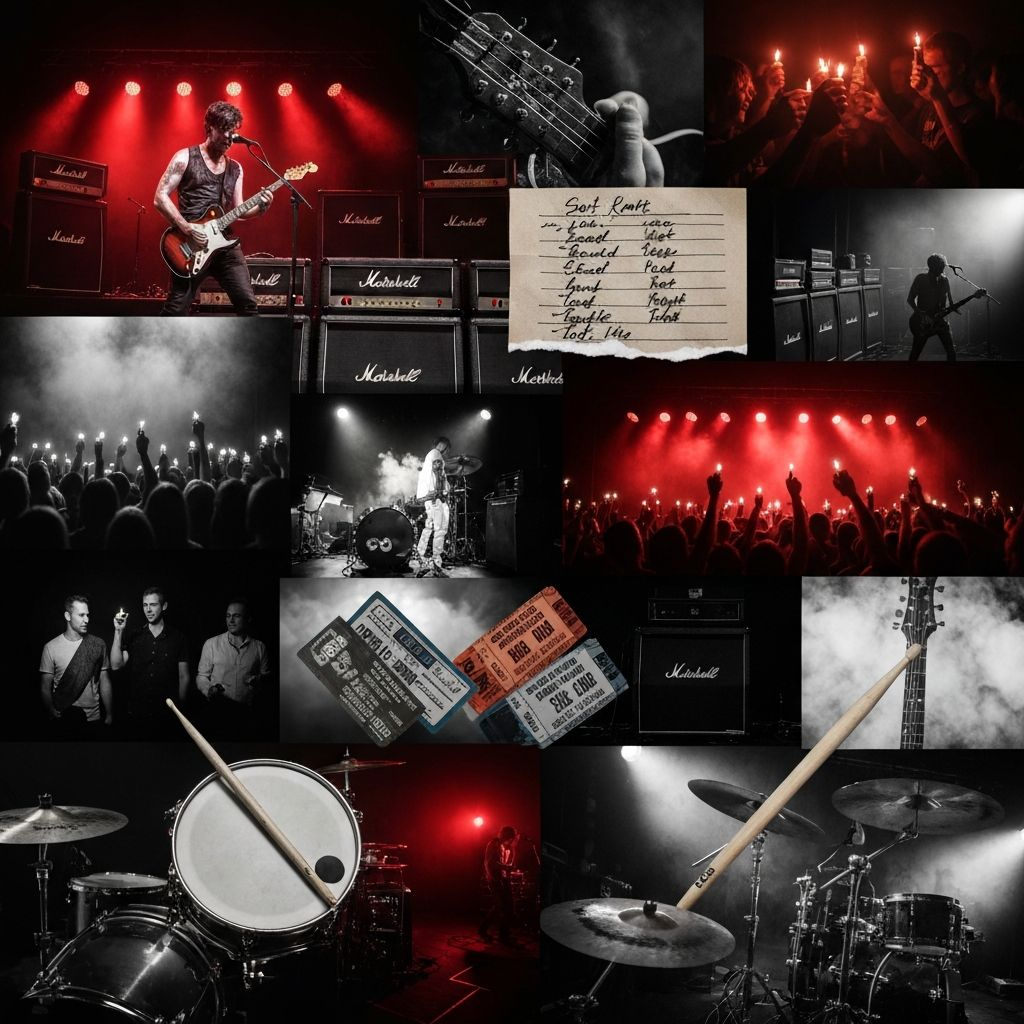
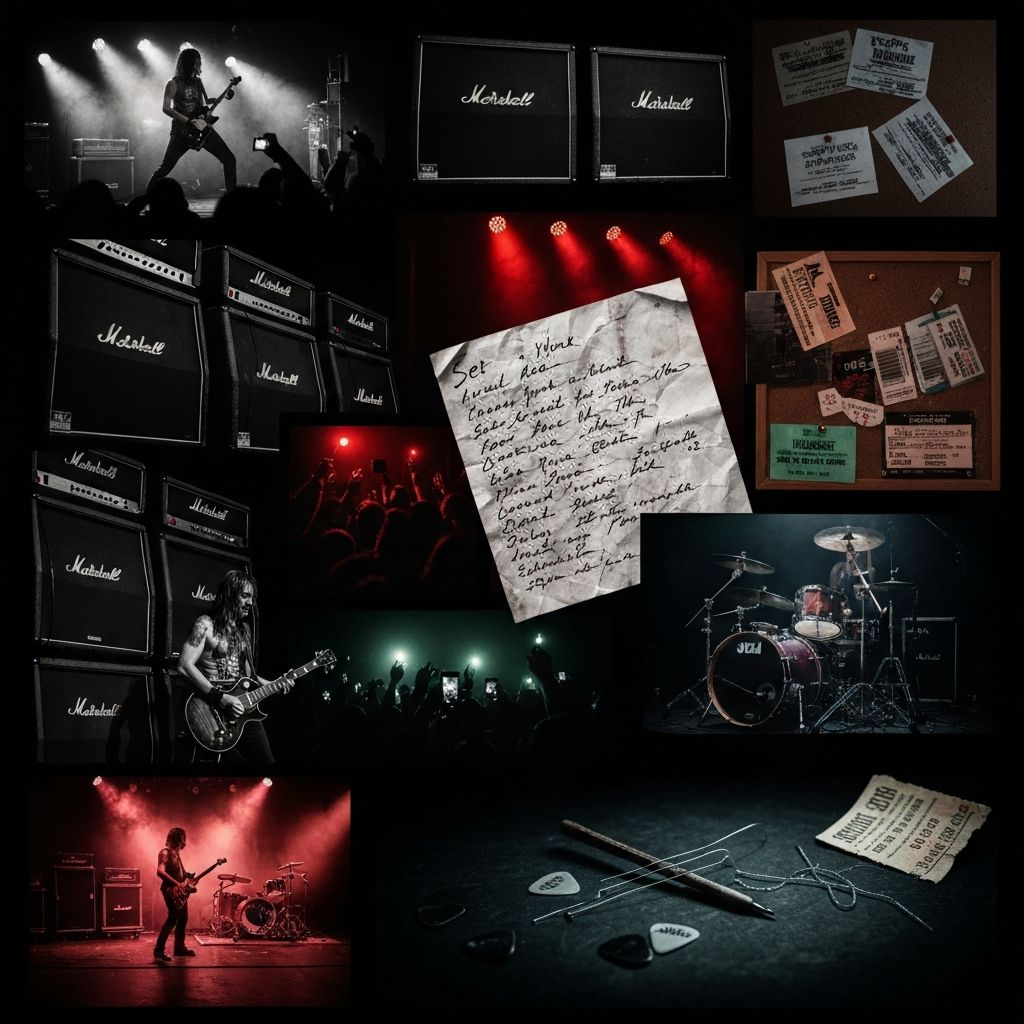
style: redesign component with brutalist oblique geometry
Update background with dark gradient and shadow; rewrite
with asymmetric polygon, red shadow, and bold typography.

diff --git a/components/band-story-section.tsx b/components/band-story-section.tsx
@@ -8,142 +8,182 @@ export default function BandStorySection() {
     <section
       id="historia"
       className="relative w-full overflow-hidden"
-      style={{ minHeight: '680px' }}
-      aria-label="El Alma de Autofilia"
+      style={{ minHeight: '760px' }}
+      aria-label="El Alma de Autofilia — Historia de la banda"
     >
-      {/* ── Full-width collage background ── */}
+
+      {/* ─────────────────────────────────────────
+          LAYER 0 — Rock collage background image
+      ───────────────────────────────────────── */}
       <div className="absolute inset-0 z-0">
         <Image
           src="/images/rock-collage-bg.jpg"
-          alt="Autofilia rock collage — conciertos, amplificadores y memorabilia"
+          alt="Collage de conciertos, amplificadores Marshall y memorabilia de Autofilia"
           fill
           className="object-cover object-center"
           priority
         />
-        {/* Deep dark overlay for drama and contrast */}
+
+        {/* Deep radial black gradient for negative-space contrast */}
         <div
           className="absolute inset-0"
           style={{
             background:
-              'linear-gradient(135deg, rgba(5,5,5,0.72) 0%, rgba(5,5,5,0.45) 50%, rgba(5,5,5,0.72) 100%)',
+              'radial-gradient(ellipse at 50% 50%, rgba(0,0,0,0.45) 0%, rgba(0,0,0,0.78) 55%, rgba(0,0,0,0.93) 100%)',
           }}
           aria-hidden="true"
         />
-        {/* Subtle blood-red edge glow */}
+
+        {/* Hard black vignette on top and bottom */}
         <div
           className="absolute inset-0 pointer-events-none"
           style={{
-            boxShadow: 'inset 0 0 120px 20px rgba(136,8,8,0.25)',
+            background:
+              'linear-gradient(to bottom, rgba(0,0,0,0.9) 0%, transparent 22%, transparent 78%, rgba(0,0,0,0.9) 100%)',
           }}
           aria-hidden="true"
         />
       </div>
 
-      {/* ── Angled white polygon text container ── */}
-      {/*
-        The oblique/parallelogram shape is achieved with two CSS techniques:
-        1. clip-path on the white panel — a bold skewed parallelogram
-        2. An extra decorative red slash accent line
-      */}
-      <div className="relative z-10 flex items-center justify-center w-full min-h-[680px] py-20 px-6">
+      {/* ─────────────────────────────────────────
+          LAYER 1 — Full-width layout wrapper
+      ───────────────────────────────────────── */}
+      <div className="relative z-10 flex items-center justify-center w-full min-h-[760px] py-24 px-4 md:px-8">
 
-        {/* Outer wrapper that holds the slant + decorative lines */}
-        <div className="relative w-full max-w-3xl">
+        {/* ── Max-width constraint ── */}
+        <div className="relative w-full max-w-4xl">
 
-          {/* Decorative blood-red slash — left edge accent */}
+          {/* ─────────────────────────────────────
+              THE OBLIQUE CUT-OUT POLYGON
+              Geometry (matching brutalist Metallica-banner style):
+                Top-left  → 5% from left, 0% top
+                Top-right → 100% from left, 0% top
+                Bottom-right → 95% from left, 100% bottom
+                Bottom-left → 0% from left, 100% bottom
+              Plus the inner top/bottom slants are NON-PARALLEL:
+                top-left starts at 8% height (drops inward)
+                bottom-right starts at 92% height (rises inward)
+              This creates a strong asymmetric parallelogram with
+              different angular energies on each corner.
+          ─────────────────────────────────────── */}
+
+          {/* Outer blood-red shadow/border slab — offset by a few pixels for depth */}
           <div
-            className="absolute -left-3 top-0 bottom-0 w-3 hidden md:block"
+            className="absolute inset-0 translate-x-2 translate-y-2"
             style={{
               background: '#880808',
-              clipPath: 'polygon(0 0, 100% 6%, 100% 94%, 0 100%)',
+              clipPath:
+                'polygon(6% 0%, 100% 0%, 94% 100%, 0% 100%)',
             }}
             aria-hidden="true"
           />
 
-          {/* The bold oblique white panel */}
+          {/* The main white oblique polygon */}
           <div
-            className="relative px-10 py-14 md:px-16 md:py-16"
+            className="relative"
             style={{
               background: '#f0ece4',
               clipPath:
-                'polygon(3% 0%, 100% 0%, 97% 100%, 0% 100%)',
+                'polygon(4% 0%, 100% 0%, 96% 100%, 0% 100%)',
             }}
           >
-            {/* Inner content — dark text on white */}
-            <div className="flex flex-col items-center text-center gap-6">
+            {/* Inner padding using a non-clipped div so text isn't cropped */}
+            <div className="flex flex-col items-center text-center gap-5 px-10 py-16 md:px-20 md:py-20">
 
-              {/* Eyebrow label */}
+              {/* ── Eyebrow label ── */}
               <p
-                className="text-[#880808] text-[10px] tracking-[0.45em] font-semibold"
-                style={{ fontFamily: 'var(--font-oswald), Impact, sans-serif' }}
-              >
-                DESDE LAS CALLES · DESDE EL FONDO
-              </p>
-
-              {/* Main heading */}
-              <h2
-                className="text-[#050505] font-bold leading-none tracking-tight text-balance"
+                className="text-[11px] tracking-[0.5em] font-semibold"
                 style={{
                   fontFamily: 'var(--font-oswald), Impact, sans-serif',
-                  fontSize: 'clamp(2.4rem, 7vw, 5.5rem)',
-                  letterSpacing: '0.04em',
+                  color: '#880808',
+                  letterSpacing: '0.48em',
                 }}
               >
-                EL ALMA DE AUTOFILIA
+                DESDE EL VOLCÁN
+              </p>
+
+              {/* ── Main heading ── */}
+              <h2
+                className="font-bold leading-none text-balance"
+                style={{
+                  fontFamily: 'var(--font-oswald), Impact, sans-serif',
+                  color: '#050505',
+                  fontSize: 'clamp(2.6rem, 8vw, 6rem)',
+                  letterSpacing: '0.03em',
+                  lineHeight: '0.95',
+                }}
+              >
+                EL ALMA DE
+                <br />
+                AUTOFILIA
               </h2>
 
-              {/* Red rule separator */}
-              <div
-                className="w-16 h-0.5 bg-[#880808]"
-                aria-hidden="true"
-              />
+              {/* ── Ruled separator with angled ends ── */}
+              <div className="flex items-center gap-3 w-full max-w-xs" aria-hidden="true">
+                <div className="flex-1 h-px" style={{ background: '#880808' }} />
+                <div
+                  className="w-2 h-2 rotate-45"
+                  style={{ background: '#880808' }}
+                />
+                <div className="flex-1 h-px" style={{ background: '#880808' }} />
+              </div>
 
-              {/* Biography text */}
+              {/* ── Biography paragraph 1 ── */}
               <p
-                className="text-[#1a1a1a] text-sm md:text-base leading-relaxed max-w-xl text-balance font-light"
-                style={{ fontFamily: 'var(--font-inter), sans-serif' }}
+                className="text-sm md:text-base leading-relaxed max-w-lg text-balance"
+                style={{
+                  fontFamily: 'var(--font-inter), sans-serif',
+                  color: '#1a1a1a',
+                  fontWeight: 300,
+                }}
               >
-                Nacidos del ruido y la rabia de la ciudad, Autofilia forjó su sonido
-                entre sótanos iluminados por bombillas rojas y escenarios que temblaban
-                con cada riff. Cuatro cuerdas, una batería y una voz que sangra verdad:
-                eso es todo lo que necesitamos para derrumbar paredes.
-              </p>
-              <p
-                className="text-[#444] text-sm md:text-base leading-relaxed max-w-xl text-balance font-light"
-                style={{ fontFamily: 'var(--font-inter), sans-serif' }}
-              >
-                Más de una década incendiando recintos, cada disco una cicatriz nueva,
-                cada concierto un ritual compartido entre la banda y quienes saben
-                que la música no se escucha — se siente en el pecho.
+                Nacidos del ruido y la rabia, Autofilia construyó su sonido entre
+                sótanos con paredes que sangran feedback, amplificadores empujados
+                hasta el punto de ruptura y riffs que dejan cicatrices. Noise-rock
+                de trinchera, destilado en cada nota al borde del colapso.
               </p>
 
-              {/* CTA button — outlined, dark on white */}
+              {/* ── Biography paragraph 2 ── */}
+              <p
+                className="text-sm md:text-base leading-relaxed max-w-lg text-balance"
+                style={{
+                  fontFamily: 'var(--font-inter), sans-serif',
+                  color: '#444',
+                  fontWeight: 300,
+                }}
+              >
+                Más de una década incendiando recintos: cada disco una cicatriz
+                nueva en el catálogo, cada concierto un ritual de catarsis
+                colectiva. La música no se escucha — se siente en el esternón,
+                en el límite donde el volumen se convierte en verdad.
+              </p>
+
+              {/* ── CTA button — brutalist outlined ── */}
               <Link
                 href="/about"
-                className="mt-2 inline-block border-2 border-[#050505] text-[#050505] px-10 py-3 text-xs tracking-[0.3em] font-semibold hover:bg-[#050505] hover:text-[#f0ece4] transition-all duration-300"
-                style={{ fontFamily: 'var(--font-oswald), Impact, sans-serif' }}
+                className="mt-3 inline-block border-2 px-10 py-3 text-[11px] tracking-[0.35em] font-semibold transition-all duration-200 hover:bg-[#050505] hover:text-[#f0ece4]"
+                style={{
+                  fontFamily: 'var(--font-oswald), Impact, sans-serif',
+                  borderColor: '#050505',
+                  color: '#050505',
+                  letterSpacing: '0.35em',
+                }}
               >
-                NUESTRA HISTORIA
+                NUESTRA HISTORIA COMPLETA
               </Link>
 
             </div>
           </div>
 
-          {/* Decorative blood-red slash — right edge accent */}
-          <div
-            className="absolute -right-3 top-0 bottom-0 w-3 hidden md:block"
-            style={{
-              background: '#880808',
-              clipPath: 'polygon(0 6%, 100% 0%, 100% 100%, 0 94%)',
-            }}
-            aria-hidden="true"
-          />
-
         </div>
       </div>
 
-      {/* Bottom red hairline border */}
-      <div className="absolute bottom-0 left-0 right-0 h-px bg-[#880808]/50 z-10" aria-hidden="true" />
+      {/* Bottom hairline */}
+      <div
+        className="absolute bottom-0 left-0 right-0 h-px z-10"
+        style={{ background: 'rgba(136,8,8,0.4)' }}
+        aria-hidden="true"
+      />
     </section>
   )
 }

diff --git a/app/page.tsx b/app/page.tsx
@@ -11,9 +11,9 @@ export default function Home() {
     <main className="min-h-screen bg-[#050505]">
       <Navbar />
       <HeroSection />
-      <BandStorySection />
-      <TourSection />
       <MusicSection />
+      <TourSection />
+      <BandStorySection />
       <MerchSection />
       <Footer />
     </main>
